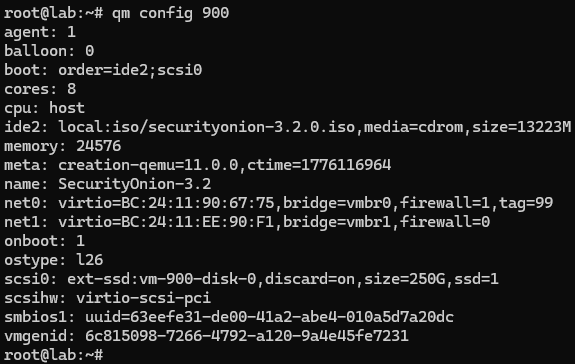
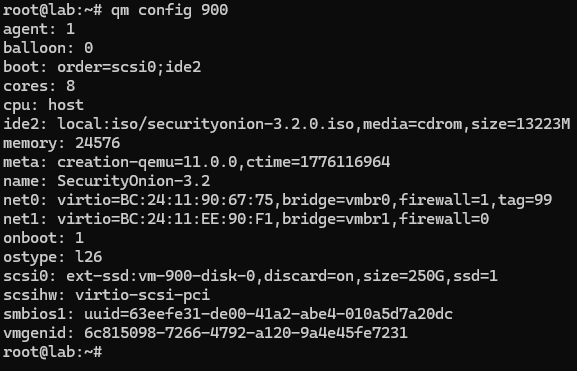
1

Changed region(s): [[0.0, 0.0, 1.0, 0.9973]]

diff --git a/05_deploying_Security_Onion/Step 2.md b/05_deploying_Security_Onion/Step 2.md
@@ -72,7 +72,7 @@ Without the `onboot` setting enabled, the VM will remain powered off after a Pro
 If the boot order, QEMU Guest Agent, or automatic-start settings are missing or incorrect, apply them with:
 
 ```bash
-qm set 900 --boot "order=ide2;scsi0" --agent 1 --onboot 1
+qm set 900 --boot "order=scsi0;ide2" --agent 1 --onboot 1
 ```
 
 Then verify the configuration again:
